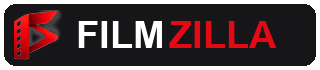
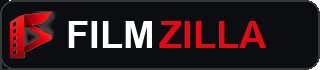
fix(watermark): place FilmZilla badge flush at bottom-left corner with 100% opaque edges

diff --git a/bot/services/video_service.py b/bot/services/video_service.py
@@ -1131,13 +1131,12 @@ async def compress_video(
         in_w, in_h = get_video_resolution(input_path, ffmpeg_bin)
         if in_w <= 0:
             in_w = 1280
-        # Scaled to CineSubz exact footprint and moved tightly to the bottom-left corner
+        # Scaled to CineSubz exact footprint and placed flush at the bottom-left corner
         badge_w = max(100, min(220, int(in_w * 0.115)))
-        ox = max(6, min(16, int(in_w * 0.009)))
-        oy_offset = max(6, min(16, int(in_h * 0.016)))
+        ox = 0
         filter_complex = (
             f"[{badge_input_idx}:v]scale={badge_w}:-1[badge];"
-            f"[0:v][badge]overlay=x={ox}:y=main_h-overlay_h-{oy_offset}"
+            f"[0:v][badge]overlay=x={ox}:y=main_h-overlay_h"
         )
         if burn_vf:
             filter_complex += f",{burn_vf}"
@@ -1149,8 +1148,8 @@ async def compress_video(
             in_w = 1280
         bw = max(100, min(220, int(in_w * 0.115)))
         bh = max(22, min(48, int(in_h * 0.035))) if in_h > 0 else 24
-        by = f"ih-{bh}-6"
-        box_str = f"drawbox=x=6:y={by}:w={bw}:h={bh}:color=black@0.95:t=fill"
+        by = f"ih-{bh}"
+        box_str = f"drawbox=x=0:y={by}:w={bw}:h={bh}:color=black@0.95:t=fill"
         full_vf = f"{box_str},{burn_vf}" if burn_vf else box_str
         cmd.extend(["-map", "0:v:0", "-vf", full_vf])
     elif burn_vf:
@@ -2443,10 +2442,9 @@ async def cover_cinesubz_watermark(
 
     try:
         if badge_path and os.path.exists(badge_path):
-            # Scaled to CineSubz exact footprint and moved tightly to the bottom-left corner
+            # Scaled to CineSubz exact footprint and placed flush at the bottom-left corner
             badge_w = max(100, min(220, int(in_w * 0.115)))
-            ox = max(6, min(16, int(in_w * 0.009)))
-            oy_offset = max(6, min(16, int(in_h * 0.016)))
+            ox = 0
 
             extra_inputs = []
             if has_intro_card:
@@ -2456,13 +2454,13 @@ async def cover_cinesubz_watermark(
                     f"[2:v]scale={intro_w}:-1,format=rgba,fade=t=in:st=1.0:d=0.7:alpha=1,fade=t=out:st=6.8:d=0.7:alpha=1[intro];"
                     f"[0:v][intro]overlay=x=(main_w-overlay_w)/2:y={intro_y}:enable='between(t,1.0,7.5)'[v_intro];"
                     f"[1:v]scale={badge_w}:-1[badge];"
-                    f"[v_intro][badge]overlay=x={ox}:y=main_h-overlay_h-{oy_offset}[outv]"
+                    f"[v_intro][badge]overlay=x={ox}:y=main_h-overlay_h[outv]"
                 )
                 extra_inputs = ["-i", os.path.abspath(intro_card_path)]
             else:
                 filter_complex = (
                     f"[1:v]scale={badge_w}:-1[badge];"
-                    f"[0:v][badge]overlay=x={ox}:y=main_h-overlay_h-{oy_offset}[outv]"
+                    f"[0:v][badge]overlay=x={ox}:y=main_h-overlay_h[outv]"
                 )
 
             cmd = [
@@ -2487,8 +2485,8 @@ async def cover_cinesubz_watermark(
         else:
             bw = max(100, min(220, int(in_w * 0.115)))
             bh = max(22, min(48, int(in_h * 0.035))) if in_h > 0 else 24
-            by = f"ih-{bh}-6"
-            filter_str = f"drawbox=x=6:y={by}:w={bw}:h={bh}:color=black@0.95:t=fill"
+            by = f"ih-{bh}"
+            filter_str = f"drawbox=x=0:y={by}:w={bw}:h={bh}:color=black@0.95:t=fill"
             cmd = [
                 ffmpeg_bin, "-y",
                 "-hide_banner",
